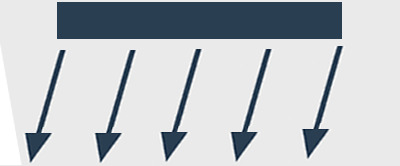
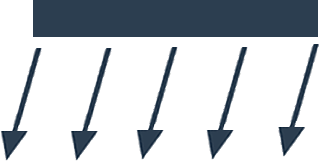
modos devices andando,cambio imagenes fondo tranparente
falta poner lindo un par de cosas. Imagenes con fondo transparente

diff --git a/src/components/devices/AC.vue b/src/components/devices/AC.vue
@@ -27,20 +27,25 @@
                     <div class="op-body">
                         <div class="name">Ventilador</div>
                         <div class="body">
-                            <v-icon name="minus" class="mode" scale="1" />
-                            <img class="fan-img" src="@/assets/modes/fan-25.png">
-                           <!--  <img class="fan-img" src="@/assets/modes/fan-50.png">
-                            <img class="fan-img" src="@/assets/modes/fan-75.png">
+                            <div class="minus-container" @click="setFanSpeed('-25')">
+                               <v-icon name="minus" class="mode" scale="1" />
+                           </div>
 
-                            <img class="fan-img" src="@/assets/modes/fan-100.png"> -->
+                           <img class="fan-img" src="@/assets/modes/fan-25.png" v-if="this.speed == '25' ">
+                           <img class="fan-img" src="@/assets/modes/fan-50.png" v-if="this.speed == '50' ">
+                           <img class="fan-img" src="@/assets/modes/fan-75.png" v-if="this.speed == '75' ">
+
+                           <img class="fan-img" src="@/assets/modes/fan-100.png" v-if="this.speed == '100' ">
+                           <div class="plus-container" @click="setFanSpeed('25')">
 
                             <v-icon name="plus" class="mode" scale="1" />
-                            <div class="empty"></div>
-                            <div class="empty"></div>
-                            <div class="empty"></div>
-
                         </div>
+                        <!-- <div class="fan-auto" @click="setFanSpeed('auto')" :class="{active: horizontalSwing == '90'}">Auto</div> -->
+                        <div class="empty"></div>
+                        <div class="empty"></div>
+
                     </div>
+                </div>
                     <div class="op-body">
                         <div class="name">Modo</div>
                         <div class="body">
@@ -58,24 +63,24 @@
                     <div class="op-body">
                         <div class="name">Swing Vertical</div>
                         <div class="body">
-                            <img class="ac-img" src="@/assets/modes/swing.png">
-                            <img class="ac-img" src="@/assets/modes/swing-22.png">
-                            <img class="ac-img" src="@/assets/modes/swing-45.png">
-                            <img class="ac-img" src="@/assets/modes/swing-67.png">
-                            <img class="ac-img" src="@/assets/modes/swing-90.png">
+                            <img class="ac-img" src="@/assets/modes/swing.png" :class="{active: verticalSwing == 'auto'}" @click="setVerticalSwing('auto')">
+                            <img class="ac-img" src="@/assets/modes/swing-22.png" :class="{active: verticalSwing == '22'}" @click="setVerticalSwing('22')">
+                            <img class="ac-img" src="@/assets/modes/swing-45.png" :class="{active: verticalSwing == '45'}" @click="setVerticalSwing('45')">
+                            <img class="ac-img" src="@/assets/modes/swing-67.png" :class="{active: verticalSwing == '67'}" @click="setVerticalSwing('67')">
+                            <img class="ac-img" src="@/assets/modes/swing-90.png" :class="{active: verticalSwing == '90'}" @click="setVerticalSwing('90')">
                             <div class="empty"></div>
 
                         </div>
                     </div>
                     <div class="op-body">
                         <div class="name">Swing Horizontal</div>
-                        <div class="body">
-                            <img class="ac-img" src="@/assets/modes/h-auto.png">
-                            <img class="ac-img" src="@/assets/modes/h--90.png">
-                            <img class="ac-img" src="@/assets/modes/h--45.png">
-                            <img class="ac-img" src="@/assets/modes/h-0.png">
-                            <img class="ac-img" src="@/assets/modes/h-45.png">                            
-                            <img class="ac-img" src="@/assets/modes/h-90.png">                            
+                        <div class="body">  
+                            <img class="ac-img" src="@/assets/modes/h-auto.png" :class="{active: horizontalSwing == 'auto'}" @click="setHorizontalSwing('auto')" >
+                            <img class="ac-img" src="@/assets/modes/h--90.png" :class="{active: horizontalSwing == '-90'}" @click="setHorizontalSwing('-90')">
+                            <img class="ac-img" src="@/assets/modes/h--45.png" :class="{active: horizontalSwing == '-45'}" @click="setHorizontalSwing('-45')">
+                            <img class="ac-img" src="@/assets/modes/h-0.png" :class="{active: horizontalSwing == '0'}" @click="setHorizontalSwing('0')">
+                            <img class="ac-img" src="@/assets/modes/h-45.png" :class="{active: horizontalSwing == '45'}" @click="setHorizontalSwing('45')">                            
+                            <img class="ac-img" src="@/assets/modes/h-90.png" :class="{active: horizontalSwing == '90'}" @click="setHorizontalSwing('90')">                            
                         </div>
                     </div>
                 </div>    
@@ -125,13 +130,67 @@ export default {
             this.device.setMode(newMode).catch((error) => {
                 console.log(error)
             })
+        },
+        setVerticalSwing(newVS){
+            this.verticalSwing=newVS
+            this.device.setVerticalSwing(newVS).catch((error)=>{
+                console.log(error)
+            })
+        },
+        setHorizontalSwing(newHS){
+            this.horizontalSwing=newHS
+            this.device.setHorizontalSwing(newHS).catch((error)=>{
+                console.log(error)
+            })
+        },
+        setFanSpeed(newFS){
+
+            console.log(this.speed)
+            if(newFS=='auto'){
+                this.speed=newFS
+                this.device.setFanSpeed(this.speed).catch((error)=>{
+                    console.log(error)
+                })
+            }
+            else if(newFS=='-25'){
+             this.speed= parseInt(this.speed)
+
+             if(this.speed!=25){
+                this.speed-=25
+                this.speed=this.speed.toString()
+                this.device.setFanSpeed(this.speed).catch((error)=>{
+                    console.log(error)
+                })
+            }
         }
+        else if(newFS=='25'){
+            this.speed= parseInt(this.speed)
+
+            if(this.speed!=100){
+                this.speed+=25
+                this.speed=this.speed.toString()
+
+                this.device.setFanSpeed(this.speed).catch((error)=>{
+                    console.log(error)
+                })
+            }
+        }
+
     }
+}
 }
 </script>
 
 <style lang="sass" scoped>
-
+.fan-auto
+    display: flex
+    align-items: center
+    border: 1px solid black
+    height: 100%
+    cursor: pointer
+    &.active
+        background-color: #b1aeae
+        box-shadow: inset 0 0 9px rgba(0, 0, 0, 0.5)
 
 .invisible
      opacity: 0
@@ -146,6 +205,9 @@ export default {
     width: 30px
     height: 30px
     cursor: pointer
+    &.active
+        background-color: #b1aeae
+        box-shadow: inset 0 0 9px rgba(0, 0, 0, 0.5)
 
 
 

diff --git a/src/components/devices/Door.vue b/src/components/devices/Door.vue
@@ -9,20 +9,29 @@
 
             </div>
             <div class="modal-body">
-                <div class="column-container">
-                    <div @click="setState(false)" class="image-container">
+                <div class="column-container"> 
+                    <div class="state-container" @click="setState(false)"  v-if="this.state == true">
                         <v-icon name="door-closed" class="state" scale="10" />
+                        <v-icon name="door-open" class="not-state" scale="3" />
+
                     </div>
-                    <div @click="setState(true)" class="close-container">
-                        <v-icon name="door-open" class="door" scale="3" />
+                    <div class="state-container" @click="setState(true)"  v-if="this.state == false">
+                        <v-icon name="door-open" class="state" scale="10" />
+                       <v-icon name="door-closed" class="not-state" scale="3" />
+                      
                     </div>
                 </div>
                 <div class="column-container">
-                    <div @click="setLock(true)" class="image-container">
+
+                    <div class="state-container" @click="setLock(true)" v-if="this.lock == false">
                         <v-icon name="lock" class="state" scale="10" />
+                        <v-icon name="lock-open" class="not-state" scale="3" />
+
                     </div>
-                    <div @click="setLock(false)" class="close-container">
-                        <v-icon name="lock-open" class="door" scale="3" />
+                    <div  class="state-container" @click="setLock(false)" v-if="this.lock == true">
+                        <v-icon name="lock-open" class="state" scale="10" />
+                        <v-icon name="lock" class="not-state" scale="3" />
+
                     </div>
                 </div>
 
@@ -49,6 +58,10 @@ export default {
     data () {
         return {
             name: 'Door',
+            state:this.device.meta.state,
+            lock:this.device.meta.lock
+
+
         }
     },
     methods:{
@@ -56,15 +69,20 @@ export default {
             this.$emit('closeMe')
         },
         setState(state) {
+            console.log(state)
+            this.state=state
             this.device.setState(state).catch((error) => {
+                console.log(error)
                 console.log(error)
             })
         },
-        setLock(lock) {
-            this.device.setLock(lock).catch((error) => {
-                console.log(error)
-            })
-        }
+            setLock(lock) {
+                console.log(lock)
+                this.lock=lock
+                this.device.setLock(lock).catch((error) => {
+                    console.log(error)
+                })
+            }
     }
 }
 </script>
@@ -73,24 +91,34 @@ export default {
 
 
 
-.image-container
+.state-container
     display: flex
     flex: 1
     align-items: center
     justify-content: center
     cursor: pointer
-.state
 
-.close-container
+
+.not-state-container
     display: flex
     flex: 1
     align-items: center
     justify-content: center
     cursor: pointer
 .door
+    display: flex
+    flex: 1
     padding: 8px
     border: 1px solid black
 
+.state
+    display: flex
+    flex: 1
+
+.not-state
+    display: flex
+    flex: 1 
+    border: 1px solid black   
 .setting-op
     display: flex
     flex: 1

diff --git a/src/components/devices/Blind.vue b/src/components/devices/Blind.vue
@@ -11,14 +11,16 @@
             <div class="modal-body">
                 <div class="column-container">
                     <div class="image-container">
-                            <img class="blind-img" src="@/assets/devices/blind.png">
+                            <img class="blind-img" src="@/assets/modes/blind-open.png" v-if="this.state == true ">
+                            <img class="blind-img" src="@/assets/modes/blind-close.png" v-if="this.state == false ">
+                            
                     </div>
                     <div class="arrow-container">
-                        <div @click="setState(true)">
+                        <div class="arrow-s" @click="setState(true)"  :class="{active: state == true}">
                             <v-icon name="arrow-up" class="arrow" scale="3" />
                         </div>
-                        <div @click="setState(false)">
-                            <v-icon name="arrow-down"  class="arrow" scale="3" border=1px />
+                        <div class="arrow-s" @click="setState(false)"   :class="{active: state == false}">
+                            <v-icon name="arrow-down"  class="arrow" scale="3"  />
                         </div>
                     </div>
                 </div>
@@ -49,6 +51,8 @@ export default {
     data () {
         return {
             name: 'Blind',
+            state: this.device.meta.state
+
         }
     },
     methods:{
@@ -56,6 +60,8 @@ export default {
             this.$emit('closeMe')
         },
         setState(state) {
+            console.log(this.state)
+            this.state=state
             this.device.setState(state).catch((error) => {
                 console.log(error)
             })
@@ -76,12 +82,20 @@ export default {
     flex: 1
     align-items: center
     justify-content: center
+    
+
+.arrow-s
+    &.active
+        background-color: #b1aeae
+        box-shadow: inset 0 0 9px rgba(0, 0, 0, 0.5)
+
+
 .arrow
     padding: 8px
     border: 1px solid black
     margin: 2px
     cursor: pointer
-
+    
 
 .heigh
     display: flex

diff --git a/src/components/devices/Refrigerator.vue b/src/components/devices/Refrigerator.vue
@@ -34,14 +34,14 @@
                     <div class="op-body">
                         <div class="name"> Modo </div>
                         <div class="body">
-                            <div class="mode-button" :class="{active: mode == 'default'}" @click="setMode('default')">
-                                <v-icon name="suitcase" class="mode" scale="2" />
+                            <div class="mode-button mode" :class="{active: mode == 'default'}" @click="setMode('default')">
+                                Default
                             </div>
                             <div class="mode-button" :class="{active: mode == 'party'}" @click="setMode('party')">
                                 <img class="mode" src="@/assets/modes/party.png">
                             </div>
                             <div class="mode-button" :class="{active: mode == 'vacation'}" @click="setMode('vacation')">
-                                <img class="mode" src="@/assets/modes/party.png">
+                                <v-icon name="suitcase" class="mode" scale="2" />
                             </div>
                         </div>
                     </div>

diff --git a/src/components/devices/Alarm.vue b/src/components/devices/Alarm.vue
@@ -16,11 +16,11 @@
                     </div>
                     <div class="arm">
 
-                        <div class="submit-btn">Stay</div>
+                        <div class="submit-btn" @click="arm('stay')">Stay</div>
 
                       
-                        <div class="submit-btn">Away</div>
-                        <div class="submit-btn">Disarm</div>
+                        <div class="submit-btn" @click="arm('Away')">Away</div>
+                        <div class="submit-btn" @click="disarm()">Disarm</div>
                         </div>
                     </div>
                     <div class="setting-op">

diff --git a/src/apiProvider/Devices/Door.js b/src/apiProvider/Devices/Door.js
@@ -9,7 +9,7 @@ class Door extends Device {
 			this.meta.state = false
 		}
 
-		if(typeof(this.meta.state) == "undefined") {
+		if(typeof(this.meta.lock) == "undefined") {
 			this.meta.lock = false
 		}
 	}

diff --git a/src/config.js b/src/config.js
@@ -32,7 +32,7 @@ export default {
 				"mode": "cool",
 				"verticalSwing": "auto,",
 				"horizontalSwing": "auto",
-				"speed": "auto"
+				"speed": "25"
 			}
 		},
 		"door": {
